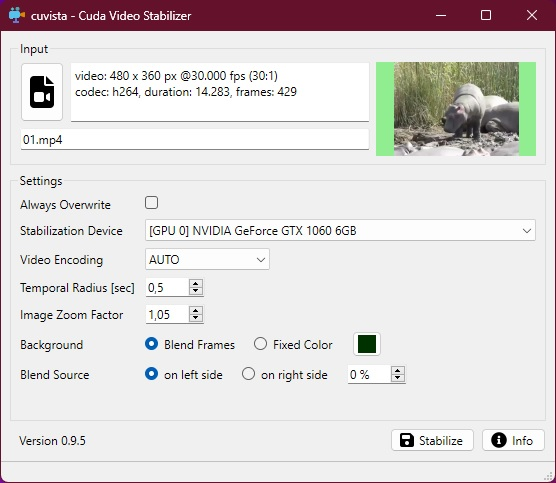
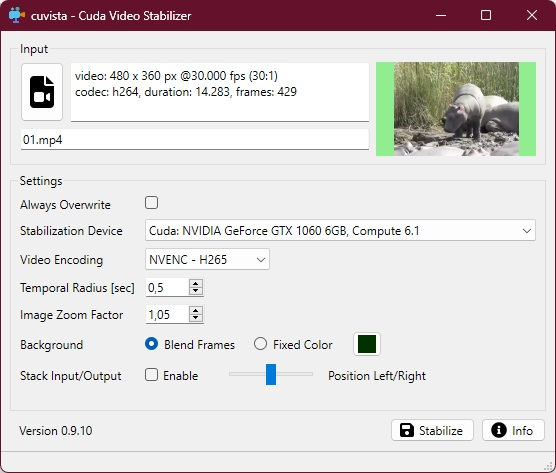
github page update opencl

diff --git a/docs/index.html b/docs/index.html
@@ -1,7 +1,7 @@
 <!DOCTYPE html>
 <html lang="en">
 <head>
-    <title>CUVISTA - Cuda Video Stabilizer</title>
+    <title>CUVISTA - Video Stabilizer</title>
     <link rel="shortcut icon" type="image/x-icon" href="images/favicon.ico">
     <link rel="stylesheet" href="style.css">
 
@@ -9,20 +9,20 @@
     <meta http-equiv="X-UA-Compatible" content="IE=edge">
     <meta name="viewport" content="width=device-width, initial-scale=1.0">
     <meta name="keywords" content="video, stabilization, stabilize, cuda">
-    <meta property="og:title" content="CUVISTA - Cuda Video Stabilizer">
+    <meta property="og:title" content="CUVISTA - Video Stabilizer">
     <meta property="og:locale" content="en_US">
     <meta name="google-site-verification" content="hLB3LpUyRKBPBzCZ1fEMaujIDOfW05AigtVBAwT24hg">
-    <meta name="description" content="cuvista, video stabilization, stabilize shaky video footage, cuda acceleration">
+    <meta name="description" content="cuvista, video stabilization, stabilize shaky video footage, cuda acceleration, opencl">
 </head>
 
 <body>
     <div id="wrapper">
         <header>
             <div class="main_margin">
-                <h1>CUVISTA - Cuda Video Stabilizer</h1>
+                <h1>CUVISTA - Video Stabilizer</h1>
                 <p>Stabilize shaky video on your PC quick and easy</p>
                 <div id="banner">
-                    <a id="download" href="https://github.com/RainerMtb/cuvista/releases/download/v0.9.7/cuvista-0.9.7.zip">
+                    <a id="download" href="https://github.com/RainerMtb/cuvista/releases/download/v0.9.10/cuvista-0.9.10.zip">
                         <span><strong>Download Latest Version</strong></span>
                         <span><img id="dlsymb" src="images/download-solid.svg"></span>
                     </a>
@@ -39,10 +39,11 @@
                 generate the output.
             </p>
             <p>
-                The software will make use of the cuda platform present on Nvidia grahics cards if such a suitable device
-                is detected, greatly accelerating the process in that way. No special driver or software is needed
-                to make use of cuda capabilites.
-                Without a cuda device stabilization will still run on CPU power alone, which will provide the same result,
+                The software will make use of GPU acceleration if supported hardware is present, greatly accelerating the process in that way.
+                The cuda platform present on Nvidia grahics cards is used if such a suitable device is detected.
+                Also OpenCL capable devices are supported.
+                No special driver or software is needed to make use of gpu acceleration.
+                Without any dedicated hardware stabilization will still run on CPU power alone, which will provide the same result,
                 although at a significantly lower speed.
             </p>
 
@@ -90,7 +91,7 @@
                 <li><strong>Zoom:</strong> Stabilization moves frames around, which reaveals the void at least on one side of the frame.
                     Zooming into the video by some amount will hide this moving effect</li>
                 <li><strong>Background:</strong> Fill the void in the background either with a fixed color or preceding frames</li>
-                <li><strong>Blend:</strong> Overlay part of the original video to display the stabilization result</li>
+                <li><strong>Stack:</strong> Put original and stabilized video side by side to display the stabilization result</li>
             </ul>
             If you want to watch how exactly each frame is moved around to compensate for the shakyness in the recording,
             try to set zoom to 0.9 and background to some fixed color
